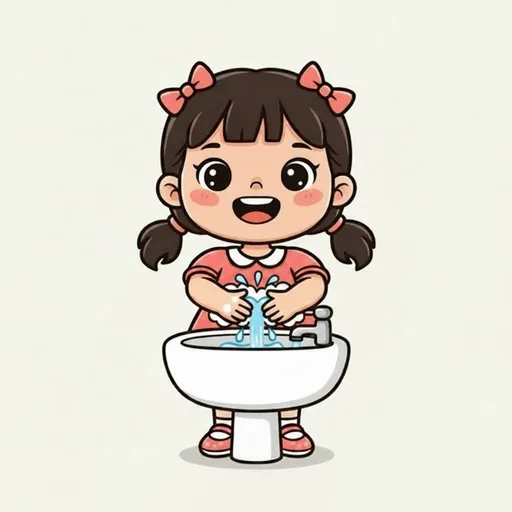
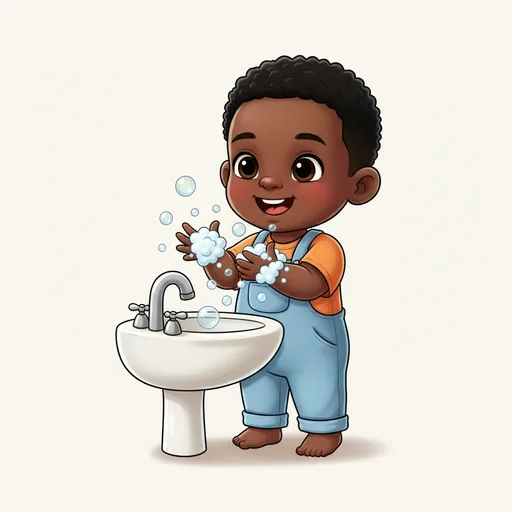
Feat: animation diversity Batch 1b — 6 verbs re-cast; Batch 1 complete
washing (Black boy), getting-dressed (white girl), waking (brown girl), waving
(Asian boy), dancing (brown girl + white boy), hugging (Black boy + Asian girl).
Dancing frames image-edited to add floating music notes (kids unchanged).
getting-dressed also refreshes the dressing-routine shirt step (act-dress-1).

Batch 1 (11 most-seen verbs) now fully diverse. npm run check + verify:ui (8) green.

Changed region(s): [[0.2188, 0.0938, 0.75, 0.9375]]

diff --git a/TINYVVOICE_PROJECT_CONTEXT.md b/TINYVVOICE_PROJECT_CONTEXT.md
@@ -5,16 +5,16 @@ A git pre-commit hook auto-refreshes the metadata block below; the human-maintai
 sections (Build Status, Next Steps) are updated by hand each push.
 
 <!-- AUTO:START -->
-> _Auto-updated on commit — last refreshed **2026-08-28 16:59 UTC** on branch `main`._
+> _Auto-updated on commit — last refreshed **2026-08-28 17:15 UTC** on branch `main`._
 
 **Recent commits:**
 
+- `bc3f4e1 Feat: animation diversity Batch 1a — 5 verbs re-cast (fresh method)`
 - `a8f74d8 Feat: routine images — dressing/bath/park (NEW WORK Phase 4)`
 - `7be82dd Feat: routine wording — bedtime + bath (NEW WORK Phase 3)`
 - `10af227 Feat: listening-game language — plural prompts + eating image (NEW WORK Phase 2)`
 - `018b40f Feat: Word Board restructure (NEW WORK Phase 1)`
 - `3ac658f Docs: defer #4 (sign-in OTP) until pilot feedback (owner decision)`
-- `d09b40d Docs: mark Sprint 1 complete in NEXT_BUILDS (parent wrapper shipped)`
 <!-- AUTO:END -->
 
 ---
